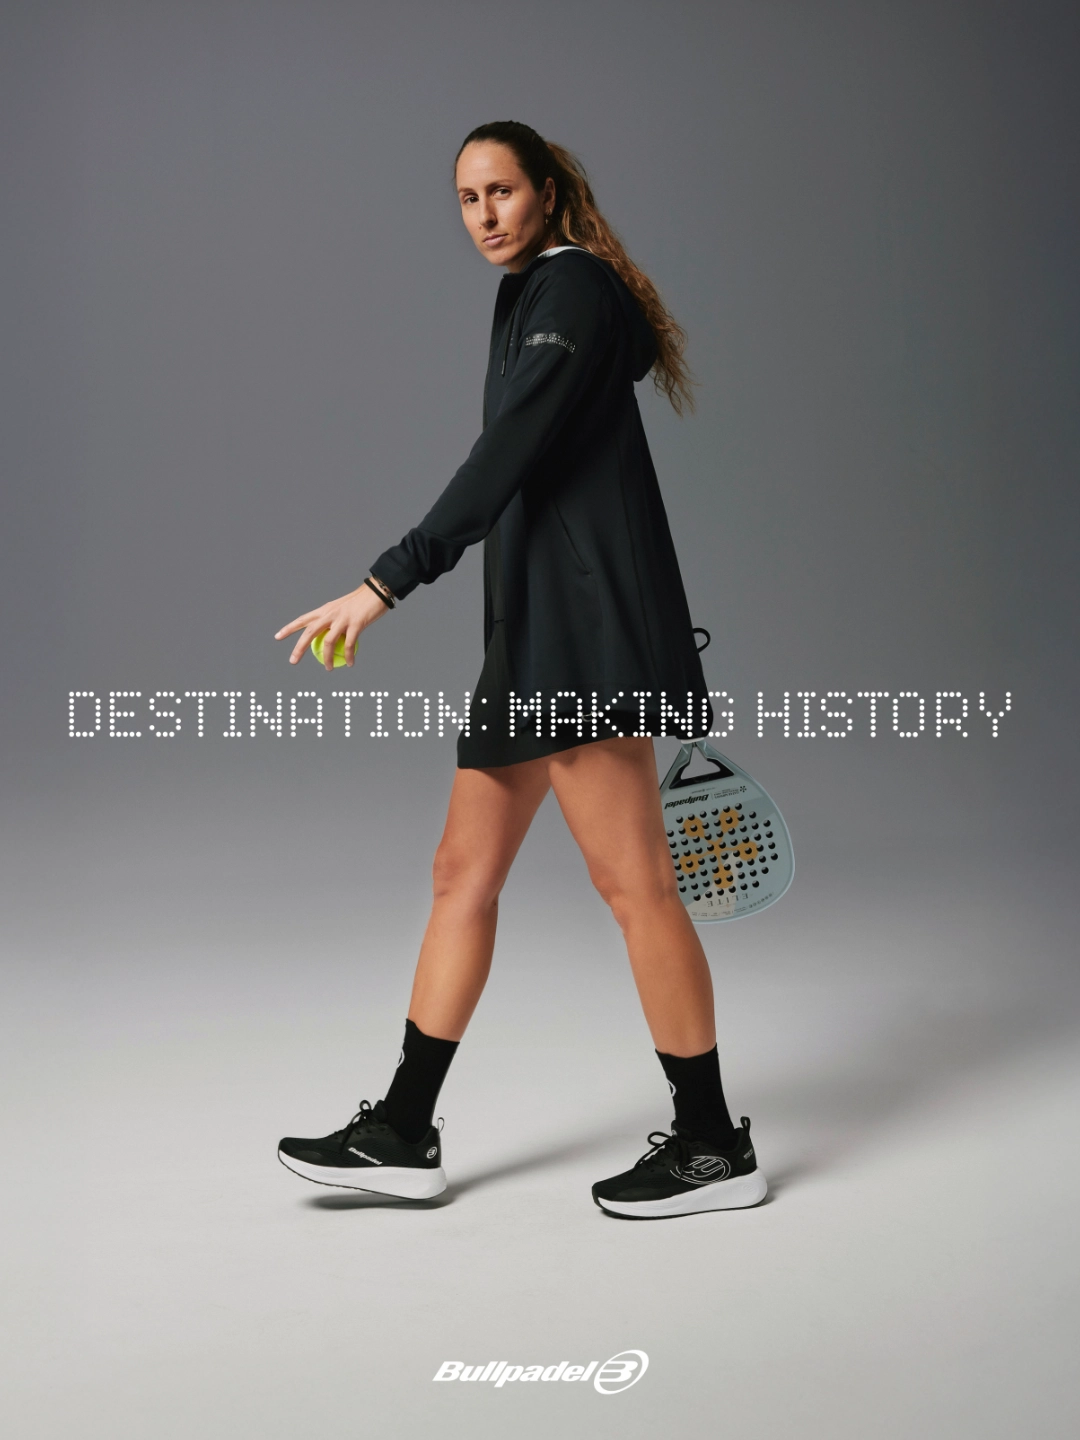
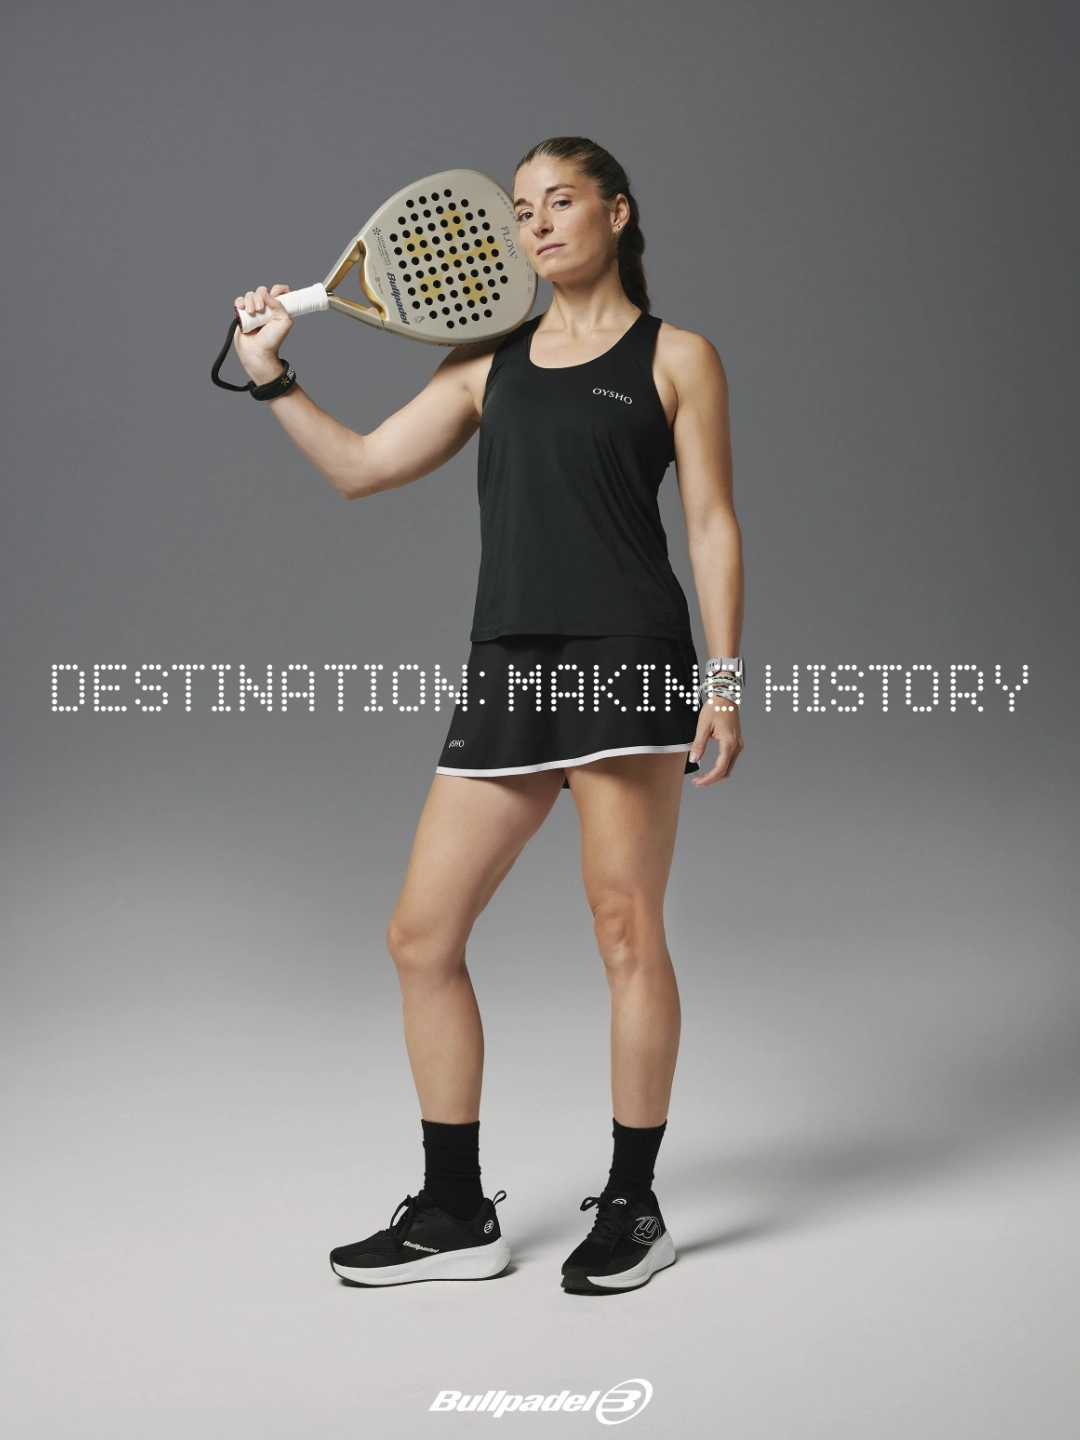
Añade video de Vimeo a la galeria del Proyecto 16 Bullpadel Premier

Changed region(s): [[0.0306, 0.0625, 1.0, 0.9062], [0.3972, 0.9375, 0.6111, 1.0]]

diff --git a/proyecto-bullpadel-premier.html b/proyecto-bullpadel-premier.html
@@ -18,6 +18,10 @@
         .nav-center { flex: 1; text-align: center; }
         .project-hero { padding: 2rem 3rem; }
         .project-hero img { width: 100%; height: auto; display: block; }
+        
+        .video-container { position: relative; padding-bottom: 56.25%; height: 0; overflow: hidden; width: 100%; margin-bottom: 1.5rem;}
+        .video-container iframe { position: absolute; top: 0; left: 0; width: 100%; height: 100%; border: 0; }
+        
         .project-details { display: grid; grid-template-columns: 1fr 2fr 3fr; gap: 3rem; padding: 4rem 3rem; border-bottom: 1px solid var(--border-color); }
         .detail-column { display: flex; flex-direction: column; gap: 1.5rem; }
         .detail-title { color: var(--text-muted); font-size: 0.95rem; text-transform: uppercase; letter-spacing: 0.05em; }
@@ -81,7 +85,7 @@
         <!-- FOTO 2 EN GRANDE -->
         <img src="img/PROYECTO_16_BULL_PREMIER/premier_2.webp" alt="Bullpadel Premier 2">
         
-        <!-- FOTOS EMPAREJADAS SEGÚN PDF -->
+        <!-- FOTOS EMPAREJADAS -->
         <div class="gallery-row">
             <img src="img/PROYECTO_16_BULL_PREMIER/premier_3.webp" alt="Bullpadel Premier 3">
             <img src="img/PROYECTO_16_BULL_PREMIER/premier_4.webp" alt="Bullpadel Premier 4">
@@ -95,6 +99,11 @@
         <div class="gallery-row">
             <img src="img/PROYECTO_16_BULL_PREMIER/premier_7.webp" alt="Bullpadel Premier 7">
             <img src="img/PROYECTO_16_BULL_PREMIER/premier_8.webp" alt="Bullpadel Premier 8">
+        </div>
+
+        <!-- VÍDEO DE VIMEO AÑADIDO AL FINAL -->
+        <div class="video-container">
+            <iframe src="https://player.vimeo.com/video/1062125568?autoplay=0&loop=1&title=0&byline=0&portrait=0" allow="autoplay; fullscreen; picture-in-picture" allowfullscreen></iframe>
         </div>
     </section>
     
